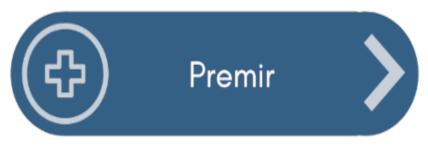
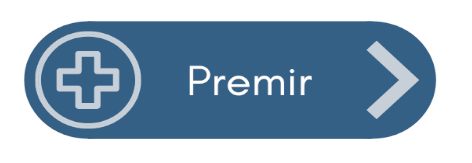
Add files via upload

diff --git a/totem/util/funcs.py b/totem/util/funcs.py
@@ -164,7 +164,7 @@ class func():
 
         self.bt_voltar_mult = PhotoImage(file = bt[12]) #Chamando imagem 
         self.figura_bt_voltar_mult = Button(self.frameMult, image = self.bt_voltar_mult, relief=FLAT, bd = 0, command=self.rootMult.destroy) #Adicionando a imagem a um botão
-        self.figura_bt_voltar_mult.place(anchor='center', relx= 0.13, rely=0.08, relwidth= 0.17, relheight= 0.075) #Localizando o botão na tela
+        self.figura_bt_voltar_mult.place(anchor='center', relx= 0.13, rely=0.08, relwidth= 0.2, relheight= 0.1) #Localizando o botão na tela
     ###Função Escolha Preferencial ou Convencional PREMIR Consultas###
     def abrir_janela_Consultas(self): 
         self.rootConsultas = tk.Toplevel() #Variavel para atribuir tela principal
@@ -193,7 +193,7 @@ class func():
 
         self.bt_voltar_cons = PhotoImage(file = bt[12]) #Chamando imagem 
         self.figura_bt_voltar_cons = Button(self.frameConsultas, image = self.bt_voltar_cons, relief=FLAT, bd = 0, command= self.rootConsultas.destroy) #Adicionando a imagem a um botão
-        self.figura_bt_voltar_cons.place(anchor='center', relx= 0.13, rely=0.08, relwidth= 0.17, relheight= 0.075) #Localizando o botão na tela
+        self.figura_bt_voltar_cons.place(anchor='center', relx= 0.13, rely=0.08, relwidth= 0.2, relheight= 0.1) #Localizando o botão na tela
     ###Função Escolha Preferencial ou Convencional PREMIR Ultrassom###
     def abrir_janela_Ultrassom(self): 
         self.rootUltrassom = tk.Toplevel() #Variavel para atribuir tela principal
@@ -222,7 +222,7 @@ class func():
 
         self.bt_voltar_ultr = PhotoImage(file = bt[12]) #Chamando imagem 
         self.figura_voltar_ultr = Button(self.frameUltrassom, image = self.bt_voltar_ultr, relief=FLAT, bd = 0, command= self.rootUltrassom.destroy) #Adicionando a imagem a um botão
-        self.figura_voltar_ultr.place(anchor='center', relx= 0.13, rely=0.08, relwidth= 0.17, relheight= 0.075) #Localizando o botão na tela
+        self.figura_voltar_ultr.place(anchor='center', relx= 0.13, rely=0.08, relwidth= 0.2, relheight= 0.1) #Localizando o botão na tela
     ###Função Escolha Preferencial ou Convencional FARMACIA BASICA###
     def abrir_janela_AtencaoBasica(self): 
         self.root_AB = tk.Toplevel() #Variavel para atribuir tela principal
@@ -251,7 +251,7 @@ class func():
 
         self.btvoltar_imgAB = PhotoImage(file = bt[12]) #Imagem Botão Voltar 
         self.btvoltar_AB = Button(self.frame_AB, image = self.btvoltar_imgAB, relief=FLAT, bd = 0, command= self.root_AB.destroy) #Adicionando a imagem a um botão
-        self.btvoltar_AB.place(anchor='center', relx= 0.13, rely=0.08, relwidth= 0.17, relheight= 0.075) #Localizando o botão na tela
+        self.btvoltar_AB.place(anchor='center', relx= 0.13, rely=0.08, relwidth= 0.2, relheight= 0.1) #Localizando o botão na tela
     ###Função Escolha Preferencial ou Convencional FARMACIA ESTADO###
     def abrir_janela_Estado(self): 
         self.root_FE = tk.Toplevel() #Variavel para atribuir tela principal
@@ -280,7 +280,7 @@ class func():
 
         self.btvoltar_imgFE = PhotoImage(file = bt[12]) #Imagem Botão Voltar 
         self.btvoltar_FE = Button(self.frame_FE, image = self.btvoltar_imgFE, relief=FLAT, bd = 0, command= self.root_FE.destroy) #Adicionando a imagem a um botão
-        self.btvoltar_FE.place(anchor='center', relx= 0.13, rely=0.08, relwidth= 0.17, relheight= 0.075) #Localizando o botão na tela
+        self.btvoltar_FE.place(anchor='center', relx= 0.13, rely=0.08, relwidth= 0.2, relheight= 0.1) #Localizando o botão na tela
     ###Função Escolha Preferencial ou Convencional FARMACIA AUTO-CUSTO###
     def abrir_janela_AutoCusto(self): 
         self.root_FAC = tk.Toplevel() #Variavel para atribuir tela principal
@@ -309,7 +309,7 @@ class func():
 
         self.btvoltar_imgFAC = PhotoImage(file = bt[12]) #Imagem Botão Voltar 
         self.btvoltar_FAC = Button(self.frame_FAC, image = self.btvoltar_imgFAC, relief=FLAT, bd = 0, command= self.root_FAC.destroy) #Adicionando a imagem a um botão
-        self.btvoltar_FAC.place(anchor='center', relx= 0.13, rely=0.08, relwidth= 0.17, relheight= 0.075) #Localizando o botão na tela    
+        self.btvoltar_FAC.place(anchor='center', relx= 0.13, rely=0.08, relwidth= 0.2, relheight= 0.1) #Localizando o botão na tela    
     
     ###Função Escolha Preferencial ou Convencional AUTORIZAÇÃO DE EXAMES###
     def abrir_janela_AE(self): 
@@ -342,7 +342,7 @@ class func():
 
             self.btvoltar_imgAE = PhotoImage(file = bt[12]) #Imagem Botão Voltar 
             self.btvoltar_AE = Button(self.frameAE, image = self.btvoltar_imgAE, relief=FLAT, bd = 0, command= self.rootAE.destroy) #Adicionando a imagem a um botão
-            self.btvoltar_AE.place(anchor='center', relx= 0.13, rely=0.08, relwidth= 0.17, relheight= 0.075) #Localizando o botão na tela   
+            self.btvoltar_AE.place(anchor='center', relx= 0.13, rely=0.08, relwidth= 0.2, relheight= 0.1) #Localizando o botão na tela   
     ###Função para Tela Premir###
     def abrir_janela_Premir(self):
         if hora_atual >= "13:40":
@@ -388,7 +388,7 @@ class func():
 
             self.bt_voltar = PhotoImage(file = bt[12]) #Imagem botão Voltar
             self.btvoltar = Button(self.frame_premir, image = self.bt_voltar, relief=FLAT, bd = 0, command= self.root_premir.destroy) #Adicionando a imagem a um botão
-            self.btvoltar.place(anchor='center', relx= 0.13, rely=0.08, relwidth= 0.17, relheight= 0.075) #Localizando o botão na tela
+            self.btvoltar.place(anchor='center', relx= 0.13, rely=0.08, relwidth= 0.2, relheight= 0.1) #Localizando o botão na tela
 
             self.btconsultas2 = Button(self.frame_premir, text = f"•{esp[0]} \n•{esp[1]} \n•{esp[2]} \n•{esp[3]} \n•{esp[4]} \n•{esp[5]} \n•{esp[6]} \n•{esp[7]}", relief = FLAT, bd = 0, background = cores[4], activebackground = cores[4], command= self.abrir_janela_Consultas) #Adicionando texto a um botão
             self.btconsultas2.configure(font = fontexemplo0) #Configuração fonte padrão
@@ -462,7 +462,7 @@ class func():
             
             self.bt_img_voltar = PhotoImage(file = bt[12]) #Imagem botão Voltar 
             self.bt_voltar_farmacias = Button(self.frame_farmacia, image = self.bt_img_voltar, relief=FLAT, bd = 0, command= self.root_farmacia.destroy) #Adicionando a imagem a um botão
-            self.bt_voltar_farmacias.place(anchor='center', relx= 0.13, rely=0.08, relwidth= 0.17, relheight= 0.075) #Localizando o botão na tela
+            self.bt_voltar_farmacias.place(anchor='center', relx= 0.13, rely=0.08, relwidth= 0.2, relheight= 0.1) #Localizando o botão na tela
     ###Função para tela de espera de senha###
     def abrir_janela_espera(self):
         self.root_espera = tk.Toplevel()
